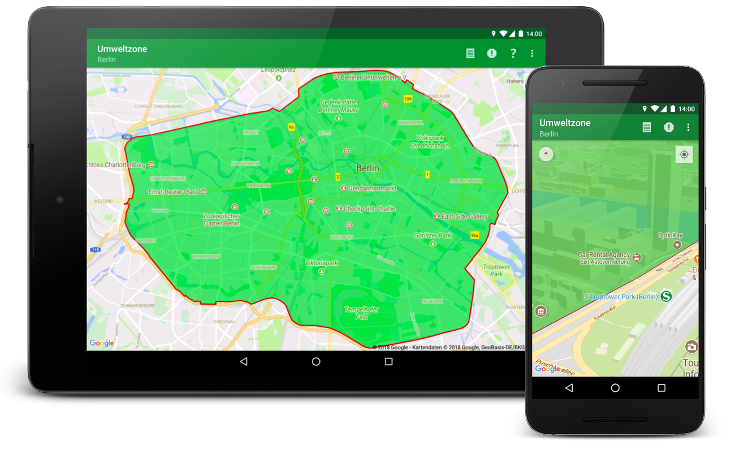
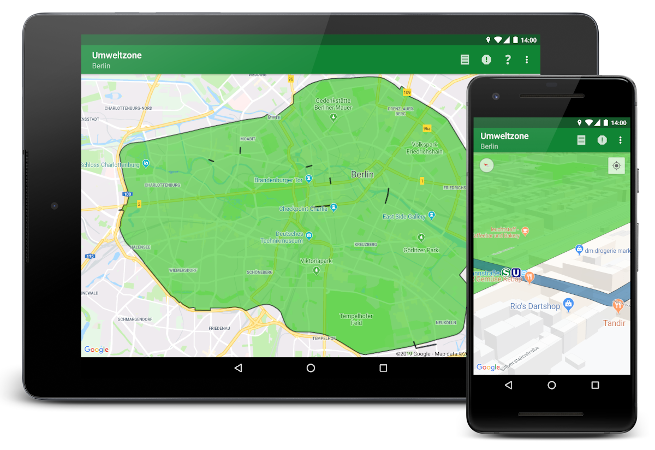
Address Diesel prohibition zones in "About" screen texts and README.md.
+ Clarify manual update process.

diff --git a/README.md b/README.md
@@ -6,13 +6,12 @@
 This application enables people to look up the areas of cities
 which are restricted for being used by cars limited by their
 specific emission profile. The app shows the outline of the low emission
-zones and provides additional information about dates or special
-regulations such as for vehicles registered abroad. Moreover, the
-user can use the FAQs to read about emission groups, fine particles,
+zones and Diesel prohibition zones and provides additional information
+about dates or special regulations such as for vehicles registered abroad.
+Moreover, users can use the FAQs to read about emission groups, fine particles,
 stickers for cars or motorbikes, punishments, exception permits and
-many more. Further, there are several links included
-pointing to external websites which serve more information to
-read through.
+many more. Further, there are several links included pointing to external
+websites which serve more information to read through.
 
 
 [![Available for Android at Google Play][google-play-badge]][google-play-link]
@@ -20,7 +19,8 @@ read through.
 
 ## Screenshot
 
-The map screen of the app shows the outline of the low-emission zone
+The map screen of the app shows the outline of the low emission zone
+and Diesel prohibitions zones
 
 ![Umweltzone][app-screenshot]
 
